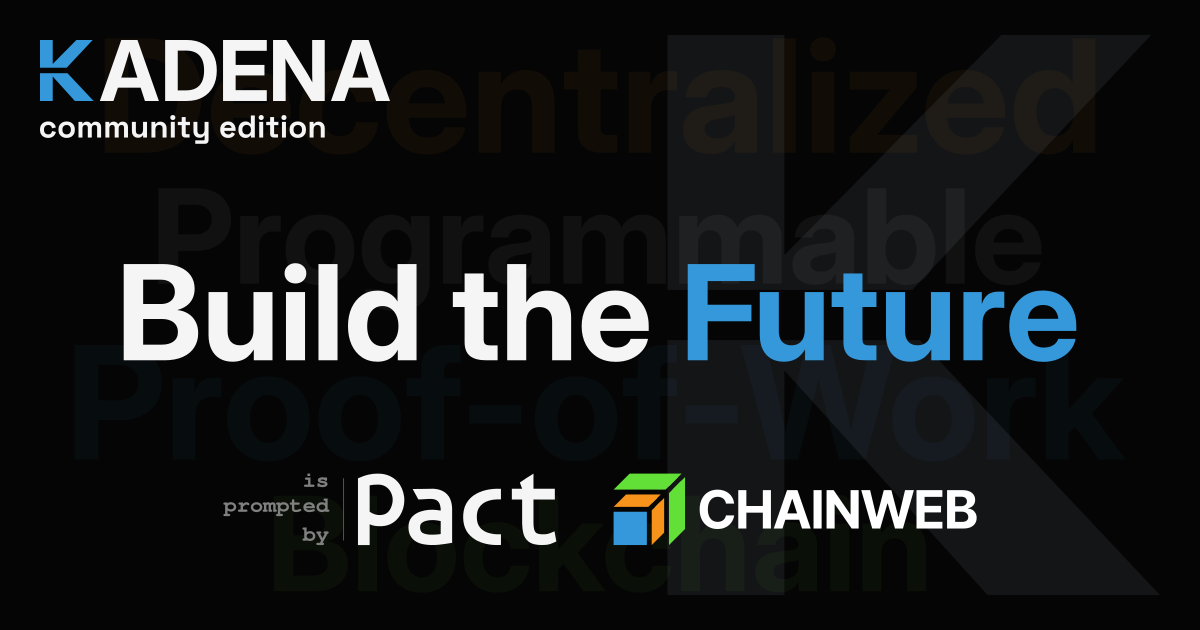
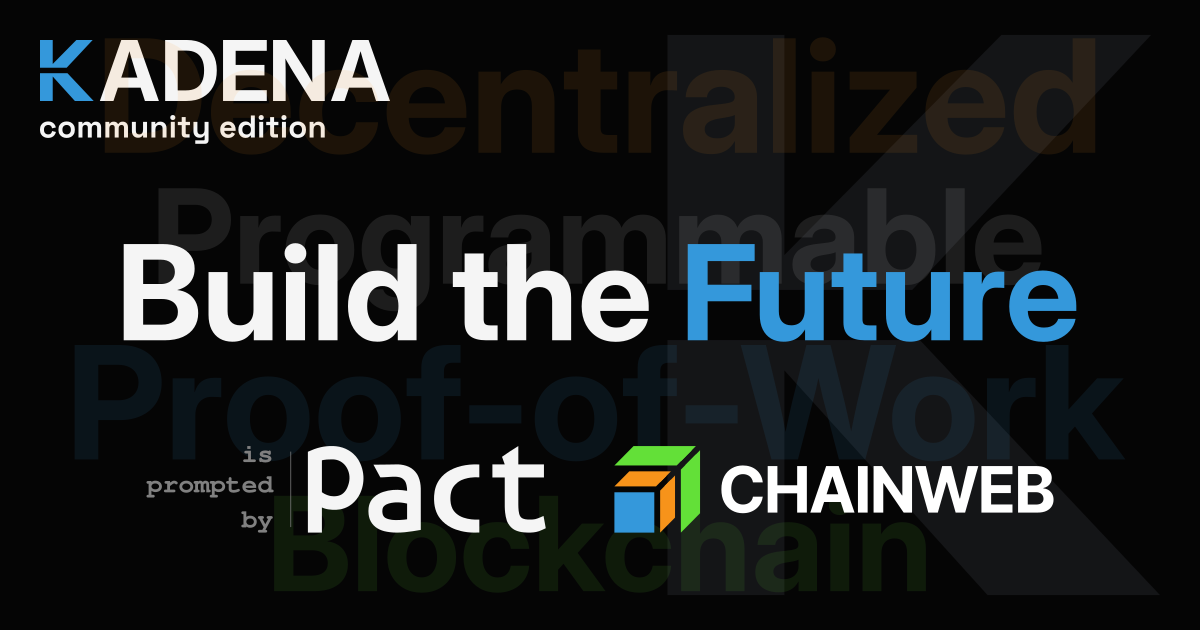
updating og cards for developers and dao.html and adding explorer and denascan symbols

Changed region(s): [[0.0925, 0.3619, 0.8942, 0.573], [0.4933, 0.6937, 0.8942, 0.8746], [0.1233, 0.6937, 0.4625, 0.8746]]

diff --git a/ecosystem.html b/ecosystem.html
@@ -613,7 +613,7 @@
                         <span class="px-2 py-1 text-xs font-mono rounded bg-sky-100 text-sky-800 dark:bg-sky-900/30 dark:text-sky-300 border border-transparent dark:border-sky-800/50">Explorer</span>
                     </div>
                     <div class="flex-grow">
-                        <h3 class="text-xl font-bold mb-2">Denascan</h3>
+                        <h3 class="text-xl font-bold mb-2">DenaScan</h3>
                         <p class="text-sm text-gray-600 dark:text-gray-400 mb-6 line-clamp-2">
                             A powerful block explorer for the Kadena network, providing real-time data and insights.
                         </p>
